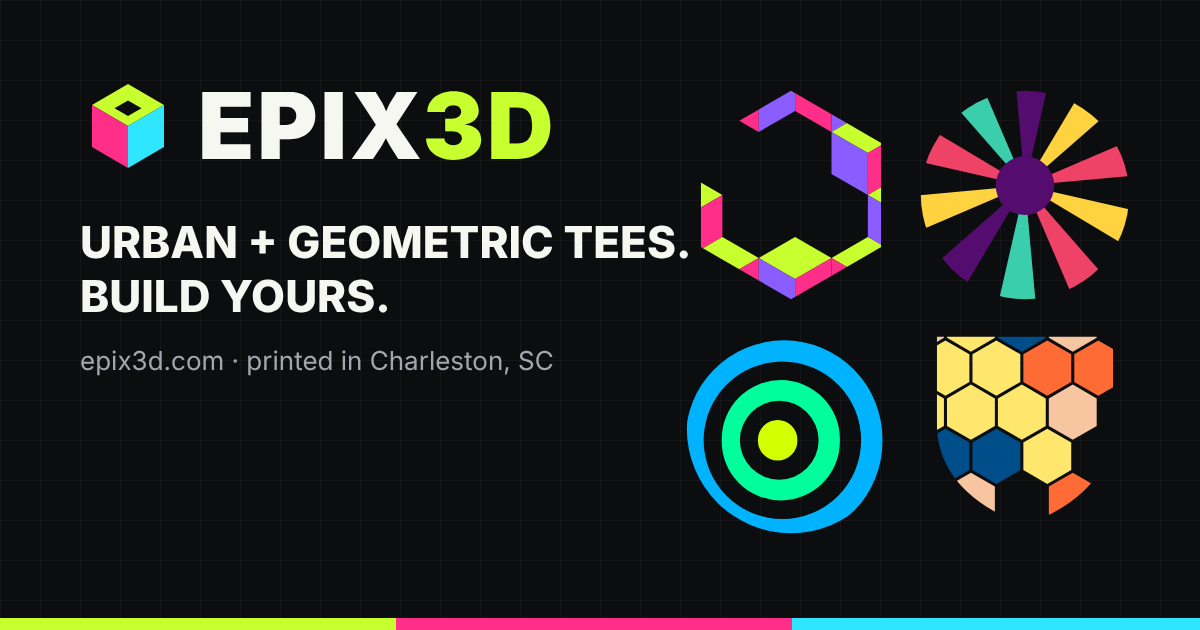
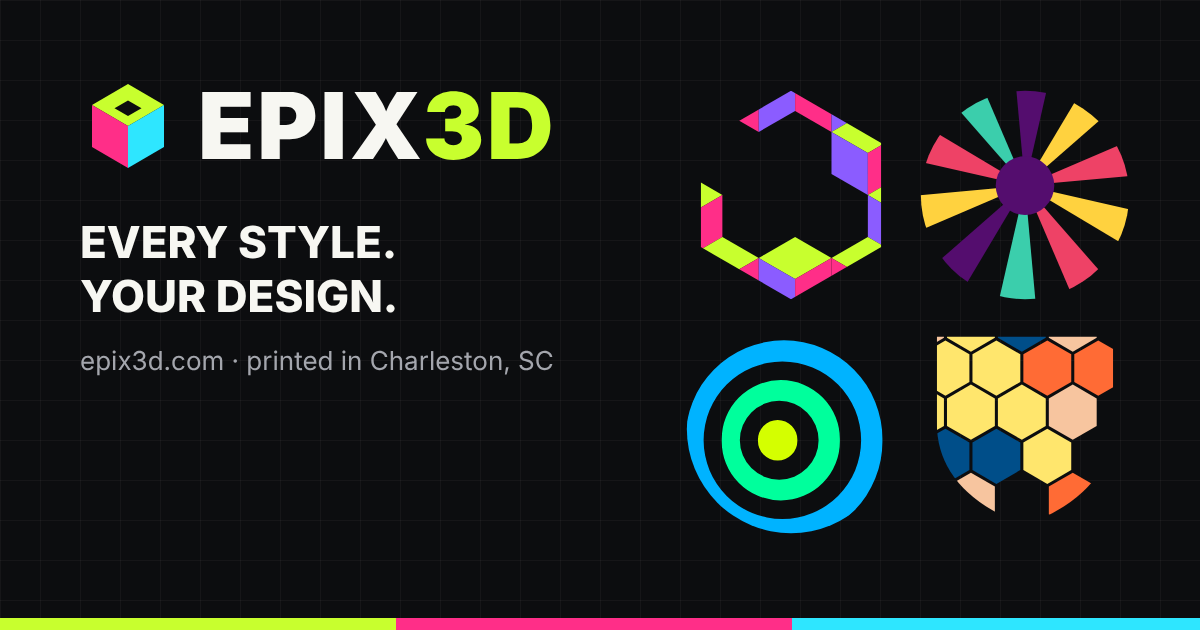
Neutral, fun title and copy
Claude-Session: https://claude.ai/code/session_018dqN95bQXHeeoR6Tx7ZU8g

Changed region(s): [[0.0617, 0.3619, 0.5858, 0.5127]]

diff --git a/index.html b/index.html
@@ -5,15 +5,15 @@
   <meta name="viewport" content="width=device-width, initial-scale=1, viewport-fit=cover">
   <meta http-equiv="Content-Security-Policy" content="default-src 'self'; script-src 'self'; style-src 'self' 'unsafe-inline' https://fonts.googleapis.com; font-src 'self' https://fonts.gstatic.com; img-src 'self' data: blob: https:; connect-src 'self' https:; form-action https://elevatedshirts.com; base-uri 'none'; object-src 'none'">
   <meta name="referrer" content="strict-origin-when-cross-origin">
-  <title>Build your shirt | EPIX3D urban and geometric tees</title>
-  <meta name="description" content="Design an urban or geometric shirt with EPIX3D. Shuffle up a one-of-a-kind pattern, add street art or upload your own, and order online. Printed in Charleston, SC.">
+  <title>EPIX3D | Design your own shirt</title>
+  <meta name="description" content="Design your own shirt with EPIX3D: every popular style in one place, with hundreds of fonts and art pieces, a pattern maker and a full set of design tools. Order online, printed in Charleston, SC.">
   <link rel="canonical" href="https://epix3d.com/">
   <meta name="theme-color" content="#0c0d0f">
   <meta property="og:type" content="website">
   <meta property="og:site_name" content="EPIX3D">
   <meta property="og:url" content="https://epix3d.com/">
-  <meta property="og:title" content="EPIX3D: build an urban or geometric shirt">
-  <meta property="og:description" content="Shuffle up a one-of-a-kind geometric pattern, add street art or your own, and we'll print it for you.">
+  <meta property="og:title" content="EPIX3D: design your own shirt">
+  <meta property="og:description" content="Every style in one place. Pick an idea, mix fonts, art and patterns, and we'll print it for you.">
   <meta property="og:image" content="https://epix3d.com/icons/social.png">
   <meta property="og:image:width" content="1200">
   <meta property="og:image:height" content="630">
@@ -33,7 +33,7 @@
       "url": "https://epix3d.com/",
       "applicationCategory": "DesignApplication",
       "operatingSystem": "Any",
-      "description": "Design urban and geometric shirts online and order them printed. Checkout through Elevated Designs.",
+      "description": "Design your own shirt online in any style and order it printed. Checkout through Elevated Designs.",
       "image": "https://epix3d.com/icons/social.png",
       "publisher": { "@type": "Organization", "name": "Elevated Designs", "url": "https://elevatedshirts.com", "address": { "@type": "PostalAddress", "addressLocality": "Charleston", "addressRegion": "SC", "addressCountry": "US" } }
     }
@@ -61,7 +61,7 @@
     </div>
   </main>
   <footer class="site-foot">
-    <p class="foot-brand"><img src="icons/mark.svg" alt="" width="28" height="28" loading="lazy">EPIX3D · urban and geometric tees</p>
+    <p class="foot-brand"><img src="icons/mark.svg" alt="" width="28" height="28" loading="lazy">EPIX3D · design your own shirt</p>
     <p><a href="https://elevatedshirts.com">Shop</a> · <a href="https://elevatedshirts.com/cart">Cart</a> · <a href="https://elevatedshirts.com/pages/faq">FAQ</a></p>
     <p class="small">EPIX3D is a label of Elevated Designs in Charleston, SC. Orders and payment are handled securely by Shopify at elevatedshirts.com.</p>
   </footer>
@@ -78,13 +78,13 @@
       "printHeightIn": 16,
       "maxUploadMb": 20,
       "colorHex": "",
-      "heading": "Build your shirt",
-      "note": "Urban and geometric tees. Shuffle up a one-of-a-kind pattern under Explore, pull street art from the library or upload your own, and we'll print it for you in Charleston, SC.",
+      "heading": "Design your shirt",
+      "note": "Every style in one place. Shuffle up a pattern, add art and text, or upload your own, and we'll print it for you in Charleston, SC.",
       "currency": "USD",
       "designIdPrefix": "EPX",
-      "libraryFocus": ["Epix3D", "Urban", "Geometric", "Street", "Graffiti"],
+      "libraryFocus": ["Epix3D"],
       "libraryFocusLabel": "EPIX3D picks",
-      "librarySearchHint": "Search art, e.g. skull, graffiti, cube",
+      "librarySearchHint": "Search art, e.g. skull, sunset, flowers",
       "textFont": "Bebas Neue",
       "fonts": [
         ["Bebas Neue", "Bebas+Neue"], ["Anton", "Anton"], ["Bungee", "Bungee"], ["Rubik Mono One", "Rubik+Mono+One"],

diff --git a/styles.css b/styles.css
@@ -1,5 +1,5 @@
 /* EPIX3D shirt builder. Same builder as the Elevated Designs app (design.elevatedshirts.com), in a dark
-   urban/geometric skin: concrete black, lime, hot pink and cyan. Base styles first, then the builder, then the
+   fun, bold skin: concrete black, lime, hot pink and cyan. Base styles first, then the builder, then the
    EPIX3D layer at the end. The variable names come from the ED theme; here --navy is the lime accent. */
 @font-face { font-family: "Inter Variable"; font-style: normal; font-weight: 100 900; font-display: swap; src: url("fonts/inter.woff2") format("woff2"); }
 :root {
